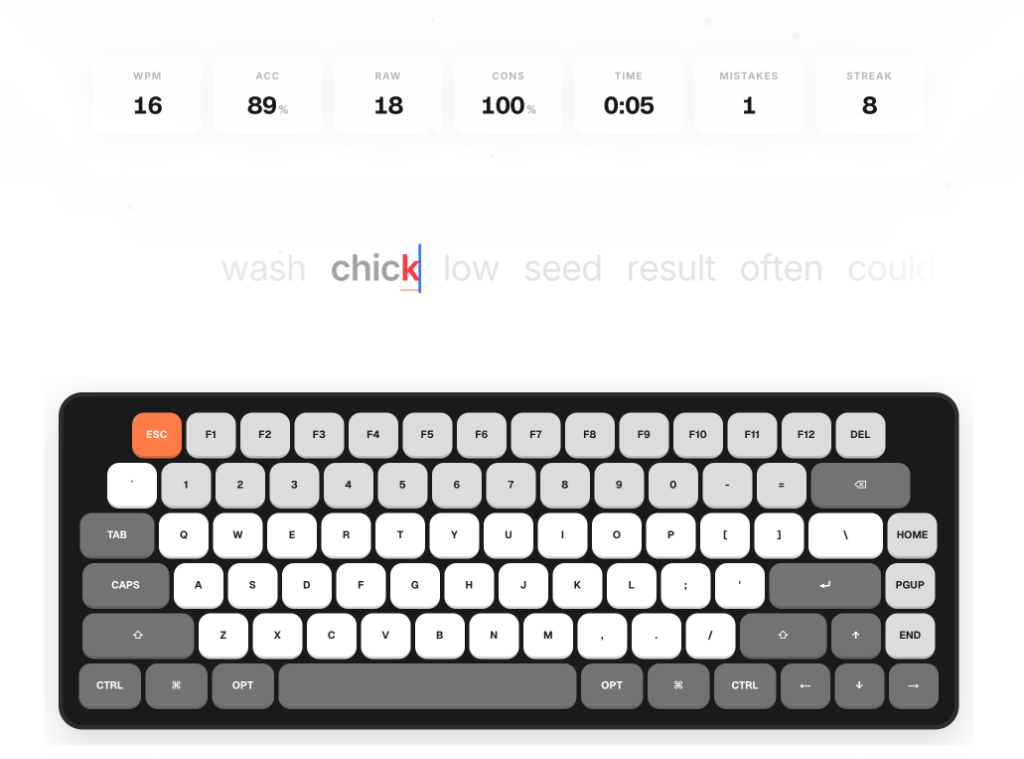
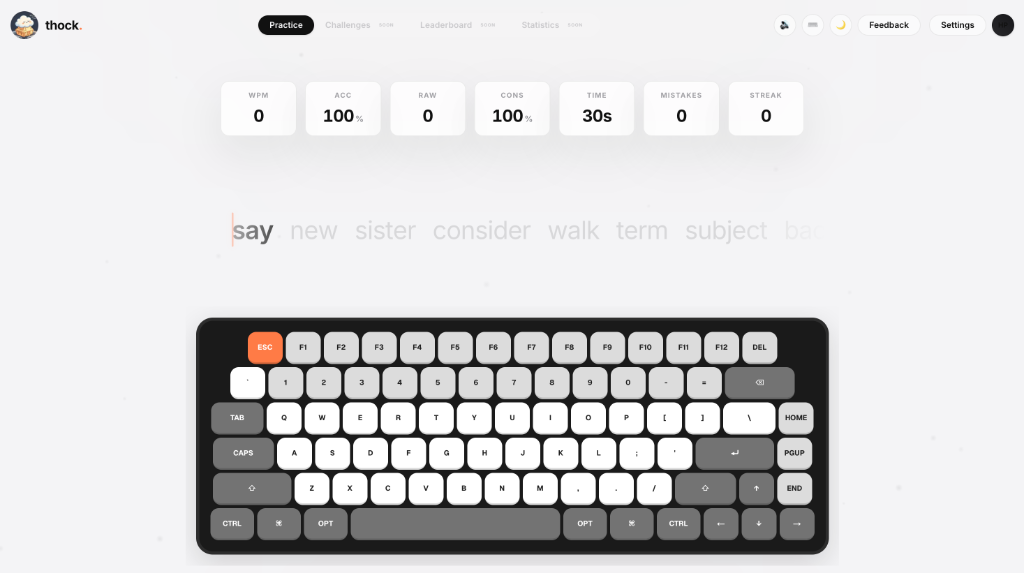
docs: add latest screenshot image to README

diff --git a/README.md b/README.md
@@ -2,6 +2,8 @@
 
 A premium, luxury typing experience for mechanical keyboard enthusiasts who care way too much about how their keystrokes sound. No boring typing tests allowed.
 
+![thock typing visualizer screenshot](./public/screenshot.png)
+
 ---
 
 ## 🌟 What is this?
